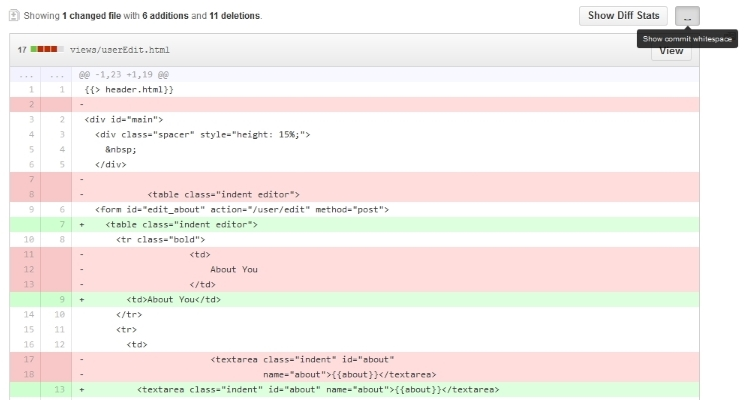
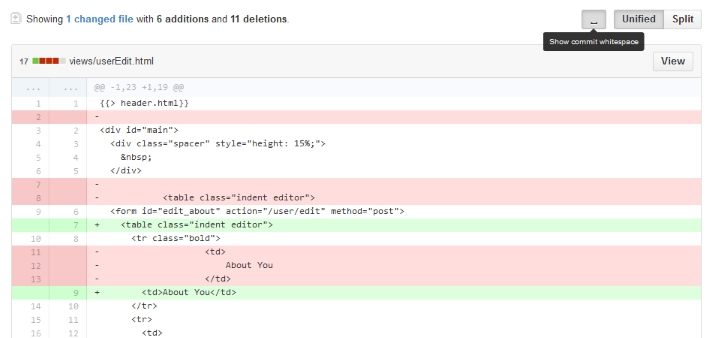
* Fixed align & url issues with new split diffs (fixes https://github.com/jerone/UserScripts/issues/25);

diff --git a/Github_Commit_Whitespace/Github_Commit_Whitespace.user.js b/Github_Commit_Whitespace/Github_Commit_Whitespace.user.js
@@ -10,7 +10,7 @@
 // @downloadURL https://github.com/jerone/UserScripts/raw/master/Github_Commit_Whitespace/Github_Commit_Whitespace.user.js
 // @updateURL   https://github.com/jerone/UserScripts/raw/master/Github_Commit_Whitespace/Github_Commit_Whitespace.user.js
 // @include     https://github.com/*
-// @version     1.3
+// @version     1.4
 // @grant       none
 // ==/UserScript==
 /* global unsafeWindow */
@@ -27,23 +27,38 @@
 
 		var on = /w=/.test(location.search);
 
-		var b = e.querySelector(".minibutton");
+		var b = e.querySelector(".toc-diff-stats");
 
 		var s = document.createElement("span");
 		s.textContent = " \u2423";
 		s.style.color = "#333";  // set color because of css selector `p.explain .octicon`;
 
 		var a = document.createElement("a");
-		a.classList.add("GithubCommitWhitespaceButton", "minibutton", "right", "tooltipped", "tooltipped-s");
+		a.classList.add("minibutton", "tooltipped", "tooltipped-s");
 		if (on) { a.classList.add("selected"); }
-		a.setAttribute("href", on ? location.href.replace(location.search, "") : location.href + "?w=1");
+		a.setAttribute("href", url(on));
 		a.setAttribute("title", on ? "Show commit whitespace" : "Hide commit whitespaces");
 		a.setAttribute("rel", "nofollow");
 		a.setAttribute("aria-label", a.getAttribute("title"));
-		a.style.marginLeft = "10px";  // give us some room;
 		a.appendChild(s);
 
-		b.parentNode.insertBefore(a, b);
+		var g = document.createElement("div");
+		g.classList.add("GithubCommitWhitespaceButton", "button-group", "right");
+		g.style.margin = "0 10px 0 0";  // give us some room;
+		g.appendChild(a);
+
+		b.parentNode.insertBefore(g, b);
+	}
+
+	function url(on) {
+		var searches = location.search.replace(/^\?/, "").split("&").filter(function(item) {
+			return item && !/w=.*/.test(item);
+		});
+		if (!on) {
+			searches.push("w=1");
+		}
+		return location.href.replace(location.search, "")
+			+ (searches.length > 0 ? "?" + searches.join("&") : "");
 	}
 
 	// init;

diff --git a/Github_Commit_Whitespace/README.md b/Github_Commit_Whitespace/README.md
@@ -22,6 +22,8 @@ Adds button to hide whitespaces from commit.
 
 ### Version History
 
+* **1.4**
+    * Fixed align & url issues with new split diffs (fixes https://github.com/jerone/UserScripts/issues/25);
 * **1.3**
     * Fixed issues after recent layout updates (fixes https://github.com/jerone/UserScripts/issues/9);
 * **1.2.1**
